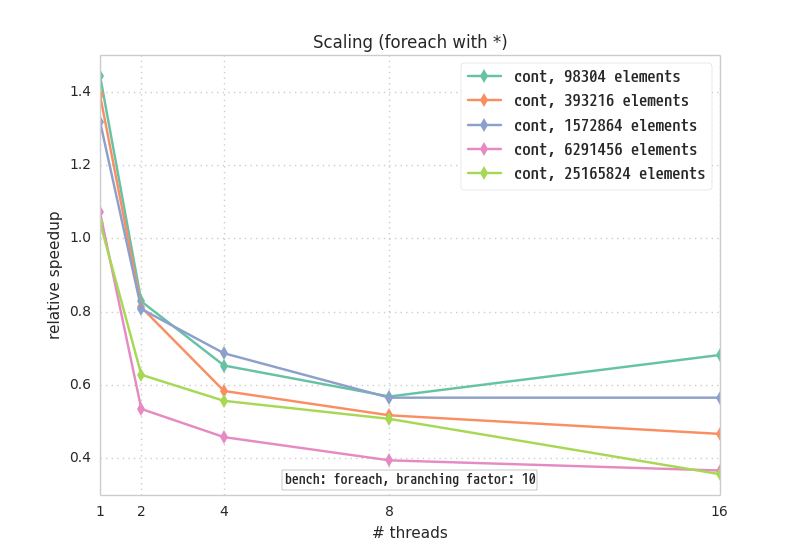
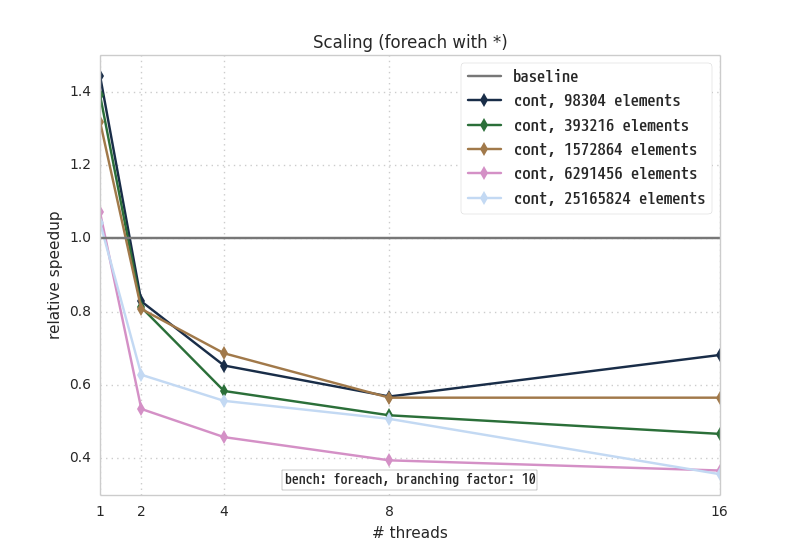
updated linux graphs

diff --git a/bench/slplot.py b/bench/slplot.py
@@ -18,7 +18,7 @@ sns.plt.rcParams.update({'mathtext.fontset' : 'custom',
                          'mathtext.tt' : 'mononoki',
                          'mathtext.cal' : 'MathJax_Caligraphic'})
 #sns.set_palette("Set2")
-sns.set_palette(sns.color_palette("cubehelix", 7))
+sns.set_palette(sns.color_palette("cubehelix", 6))
 
 
 import datetime
@@ -130,7 +130,7 @@ selector = {
 ################################################################################
 
 # filename path/template
-date = "2016-09-30"
+date = "2016-09-28"
 log_path = "logs_" + date
 fname_tmpl = log_path + "/{0:s}_{1:d}_{2:d}_{3:d}.log"
 
@@ -139,11 +139,11 @@ fname_tmpl = log_path + "/{0:s}_{1:d}_{2:d}_{3:d}.log"
 #bench_name = "reduce_procs-v-speed-s"
 #bench_name = "reduce_procs-v-speed-m"
 #bench_name = "reduce_procs-v-speed-l"
-#bench_name = "reduce_procs-v-speed-a"
+bench_name = "reduce_procs-v-speed-a"
 #bench_name = "foreach_size-v-time"
 #bench_name = "foreach_procs-v-speed-a"
 #bench_name = "foreach_bpbits-v-speed"
-bench_name = "heat_size-v-time"
+#bench_name = "heat_size-v-time"
 #bench_name = "heat_width-v-speed-a"
 #bench_name = "heat_steps-v-speed-a"
 if "reduce" in bench_name:
@@ -181,7 +181,7 @@ proc_val = 16
 procs = proc_set
 
 # vector sizes
-size_set = map(lambda x: x * (2**15 * 3), [2**0, 2**2, 2**4, 2**6, 2**8])
+size_set = map(lambda x: x * (2**15 * 3), [2**0, 2**2, 2**4, 2**6, 2**8, 2**10])
 size_val_s = 2**19 * 3
 size_val_m = 2**21 * 3
 size_val_l = 2**23 * 3
@@ -244,8 +244,16 @@ def keysort(s):
         keyorder = {k:v for v,k in enumerate(["seq", "vec", "cont", "async", "omp"])}
         for k,v in keyorder.items():
             if k in s[0]:
+                print "AH HA",k,s[0]
                 return v
         return keyorder.items().size()
+#   elif "foreach" in s[0]:
+#       keyorder = OrderedDict({k:v for v,k in enumerate(["stdv_foreach01", "cont_foreach01", "2", "4", "8", "16"])})
+#       for k,v in keyorder.items():
+#           if k in s[0]:
+#               print k,s[0]
+#               return v
+#       return keyorder.items().size()
     elif "heat" in s[0]:
         keyorder = OrderedDict({k:v for v,k in enumerate(["stdv_heat01", "cont_heat01", "2", "4", "8", "16"])})
         for k,v in keyorder.items():
@@ -289,7 +297,6 @@ if "-v-speed" in bench_name:
         else:
             sns.plt.plot(pvals[0], [y / baseline for y in pvals[1]], marker='d', label=plab)
 
-    sns.plt.axhline(1, color='#777777', linestyle='-', label="baseline")
     handles, labels = sns.plt.gca().get_legend_handles_labels()
     labels, handles = zip(*sorted(zip(labels, handles), key=lambda t: len(t[0])))
     leg = sns.plt.legend(handles, labels, loc='upper right', fancybox=True, frameon=True, prop=font0)
